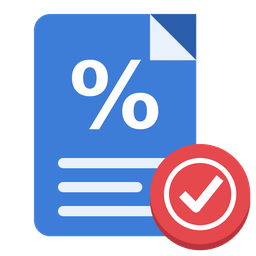
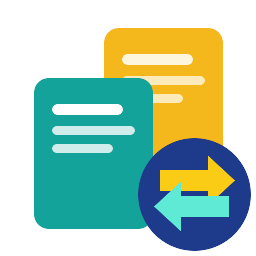
fix(edo): власна іконка, cron без токена, рахунок постачальника лише з рахунків і актів (#510)
* fix(l10n_ua_edo*): власна іконка ЕДО замість іконки податкового кабінету

Іконку модулів ЕДО було скопійовано з l10n_ua_tax_cabinet, і в головному
меню «ЕДО» та «Податки» виглядали однаково. Нова: два аркуші (вихідний,
вхідний) і стрілки обміну.

* fix(l10n_ua_edo): cron пропускає облікові записи ЕДО без токена

Запис, що ще налаштовується (або демонстраційний), щочетвертьгодини
отримував би помилку «немає токена API».

* fix(l10n_ua_edo_account): рахунок постачальника лише з рахунку, акта чи видаткової

Кнопка «Створити рахунок постачальника» показувалась на будь-якому вхідному
документі, зокрема на договорі (NDA). Тепер провайдер може назвати категорії,
з яких робиться рахунок (bill_categories); для Вчасно це 1, 2, 5. Документ без
категорії або сервіс без цього переліку — як і раніше, кнопка є.

---------

diff --git a/l10n_ua_edo_account/tests/test_edo_account.py b/l10n_ua_edo_account/tests/test_edo_account.py
@@ -1,6 +1,7 @@
 """Міст ЕДО для рахунків (#81): надсилання з рахунку, статус на рахунку,
 рахунок постачальника з вхідного документа. Провайдер підмінено."""
 
+from odoo.exceptions import UserError
 from odoo.tests import tagged
 
 from odoo.addons.account.tests.common import AccountTestInvoicingCommon
@@ -110,3 +111,20 @@ class TestEdoAccount(AccountTestInvoicingCommon):
         self.assertEqual(second.edo_document_count, 0)
         upload = next(args[0] for op, args in self.calls if op == 'upload')
         self.assertEqual(upload['recipient_emails'], ['buh@a.example.com'])
+
+    def test_no_vendor_bill_from_contract(self):
+        """A contract that came in is not a bill: no button, and the action refuses."""
+        if not hasattr(self.edo, '_vchasno_bill_categories'):
+            self.skipTest('l10n_ua_edo_vchasno is not installed')
+        self.edo.provider = 'vchasno'
+        make = self.env['l10n_ua.edo.document'].create
+        contract = make({'name': 'NDA', 'account_id': self.edo.id, 'direction': 'in',
+                         'category': '3', 'partner_id': self.partner_a.id})
+        invoice = make({'name': 'Рахунок', 'account_id': self.edo.id, 'direction': 'in',
+                        'category': '2', 'partner_id': self.partner_a.id})
+        unknown = make({'name': 'Інше', 'account_id': self.edo.id, 'direction': 'in',
+                        'partner_id': self.partner_a.id})
+        self.assertEqual((contract.can_create_bill, invoice.can_create_bill, unknown.can_create_bill),
+                         (False, True, True))
+        with self.assertRaises(UserError):
+            contract.action_create_vendor_bill()

diff --git a/l10n_ua_edo_account/models/edo_document.py b/l10n_ua_edo_account/models/edo_document.py
@@ -1,17 +1,39 @@
 import base64
 
-from odoo import models, _
+from odoo import api, fields, models, _
 from odoo.exceptions import UserError
 
 
 class L10nUaEdoDocument(models.Model):
     _inherit = 'l10n_ua.edo.document'
 
+    can_create_bill = fields.Boolean(compute='_compute_can_create_bill')
+
+    @api.depends('direction', 'category', 'account_id.provider')
+    def _compute_can_create_bill(self):
+        for doc in self:
+            doc.can_create_bill = doc.direction == 'in' and doc._is_bill_category()
+
+    def _is_bill_category(self):
+        """Whether the category of the document is one a vendor bill comes from.
+
+        A document without a category, or a service that does not tell its bill
+        categories, is let through: the user decides."""
+        self.ensure_one()
+        account = self.account_id
+        method = account.provider and getattr(account, f'_{account.provider}_bill_categories', None)
+        if not method or not self.category or self.category == '0':
+            return True
+        return self.category in method()
+
     def action_create_vendor_bill(self):
         """A draft vendor bill from an incoming document, with its PDF."""
         self.ensure_one()
         if self.direction != 'in':
             raise UserError(_('Only an incoming document becomes a vendor bill.'))
+        if not self._is_bill_category():
+            raise UserError(_('A vendor bill is made from an invoice, an act or a waybill, '
+                              'not from a document of this category (a contract, for example).'))
         if self._record():
             return self.action_open_record()
         if not self.partner_id:

diff --git a/l10n_ua_edo/models/edo_account.py b/l10n_ua_edo/models/edo_account.py
@@ -17,6 +17,9 @@ plain data, so the base module and the bridges never see the API:
 * ``categories()`` → [(code, name)] — the document categories of the service.
 * ``default_categories()`` (optional) → {report xmlid: category code} — the
   category each Ukrainian printed form goes under by default.
+* ``bill_categories()`` (optional) → {category code} — the categories of
+  incoming documents a vendor bill is made from (invoices, acts, waybills).
+  Without it a bill can be made from any incoming document.
 """
 
 import logging
@@ -153,7 +156,8 @@ class L10nUaEdoAccount(models.Model):
 
     @api.model
     def _cron_sync(self):
-        for account in self.search([('provider', '!=', False)]):
+        # An account without a token is being set up (or is a demo): nothing to sync
+        for account in self.search([('provider', '!=', False)]).filtered(lambda a: a.sudo().token):
             try:
                 with self.env.cr.savepoint():
                     account._sync()

diff --git a/l10n_ua_edo_vchasno/models/edo_account.py b/l10n_ua_edo_vchasno/models/edo_account.py
@@ -55,6 +55,10 @@ class L10nUaEdoAccount(models.Model):
             'l10n_ua_agreement.action_report_agreement_act': '1',       # Акт наданих послуг
         }
 
+    def _vchasno_bill_categories(self):
+        """Incoming documents of these categories become vendor bills; a contract does not."""
+        return {'1', '2', '5'}  # Акт наданих послуг, Рахунок, Видаткова накладна
+
     def _vchasno_upload(self, payload):
         params = {
             'title': payload.get('title'),

diff --git a/l10n_ua_edo/__manifest__.py b/l10n_ua_edo/__manifest__.py
@@ -1,6 +1,6 @@
 {
     'name': 'Ukraine - Electronic Document Exchange (EDO)',
-    'version': '19.0.1.1.0',
+    'version': '19.0.1.1.1',
     'category': 'Accounting/Localization',
     'summary': 'Обмін первинними документами через сервіси ЕДО (Вчасно, …): '
                'надсилання на підпис, статуси, вхідні документи',

diff --git a/l10n_ua_edo_account/__manifest__.py b/l10n_ua_edo_account/__manifest__.py
@@ -1,6 +1,6 @@
 {
     'name': 'Ukraine - EDO for Invoices',
-    'version': '19.0.1.1.0',
+    'version': '19.0.1.1.1',
     'category': 'Accounting/Localization',
     'summary': 'Надсилання рахунків, актів і видаткових у ЕДО; рахунок постачальника з вхідного документа',
     'description': """

diff --git a/l10n_ua_edo_vchasno/__manifest__.py b/l10n_ua_edo_vchasno/__manifest__.py
@@ -1,6 +1,6 @@
 {
     'name': 'Ukraine - EDO: Вчасно',
-    'version': '19.0.1.2.0',
+    'version': '19.0.1.2.1',
     'category': 'Accounting/Localization',
     'summary': 'Провайдер ЕДО «Вчасно»: завантаження документів на підпис, статуси, вхідні',
     'description': """
